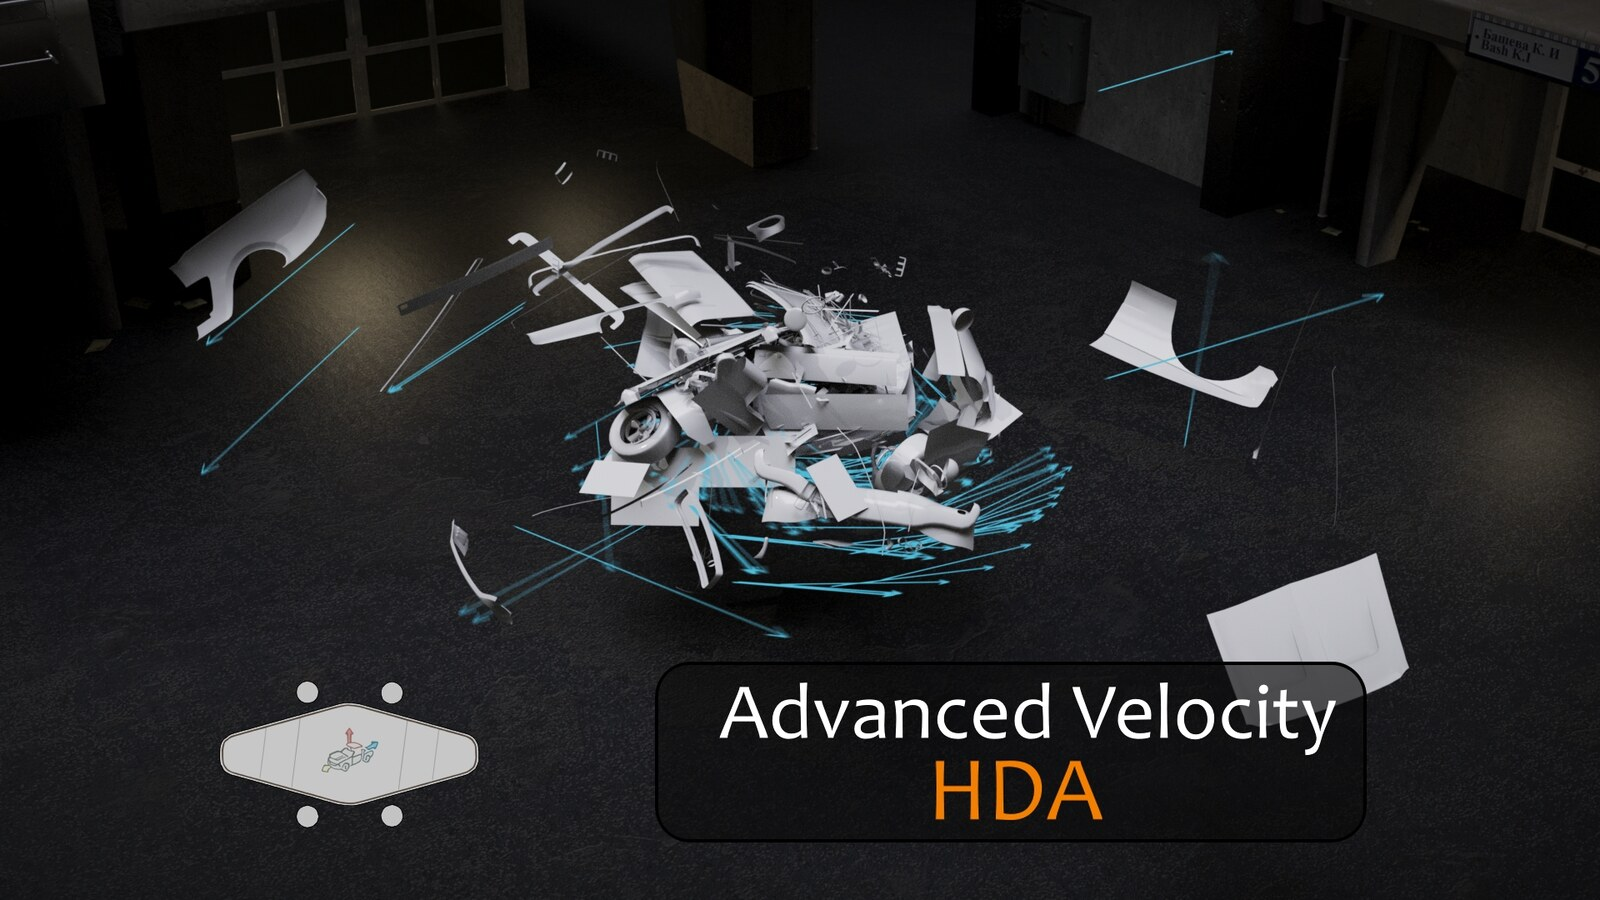
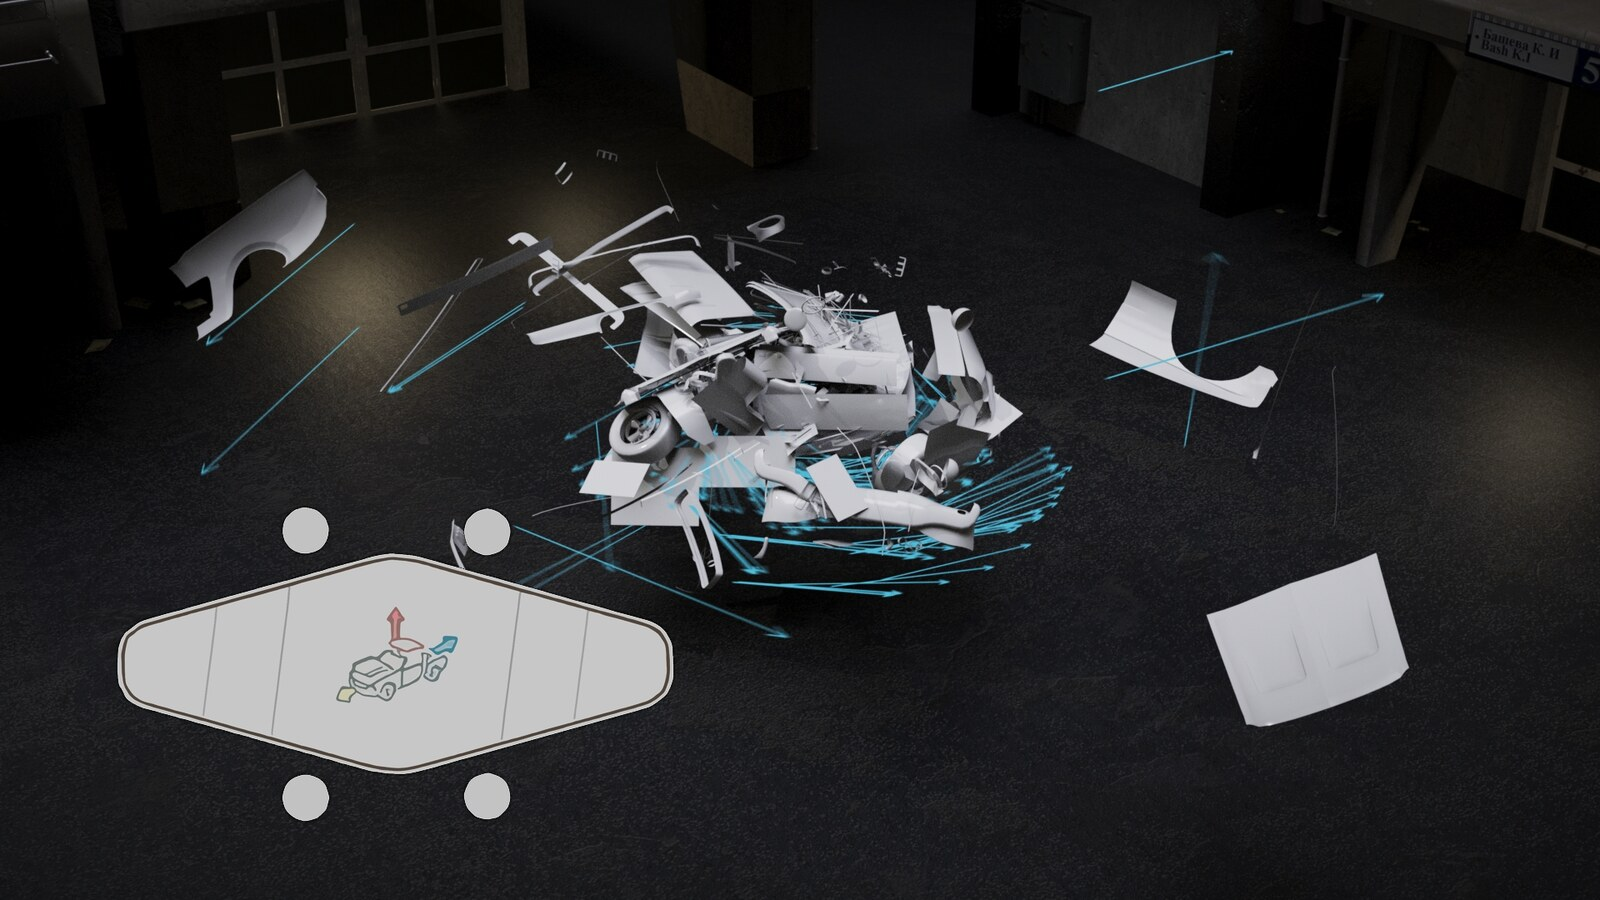
Refreshes Retype-generated documentation.
Process triggered by tonehammer.

Changed region(s): [[0.0625, 0.56, 0.875, 0.9333], [0.6562, 0.7156, 0.7188, 0.7467]]

diff --git a/resources/js/config.js b/resources/js/config.js
@@ -1,1 +1,1 @@
[2 lines of base64/hex data omitted]

diff --git a/advanced-velocity/timed-events/index.html b/advanced-velocity/timed-events/index.html
@@ -5,7 +5,7 @@
     <meta name="viewport" content="width=device-width,initial-scale=1">
     <meta name="color-scheme" content="light dark">
     <meta name="turbo-root" content="/jvtools-docs">
-    <meta name="turbo-cache-control" content="no-cache" data-turbo-track="reload" data-track-token="4.6.0.839342375614">
+    <meta name="turbo-cache-control" content="no-cache" data-turbo-track="reload" data-track-token="4.6.0.839342622004">
 
     <!-- See retype.com -->
     <meta name="generator" content="Retype 4.6.0">
@@ -38,12 +38,12 @@
 
     <script data-cfasync="false">(function(){var cl=document.documentElement.classList,ls=localStorage.getItem("retype_scheme"),hd=cl.contains("dark"),hl=cl.contains("light"),wm=window.matchMedia&&window.matchMedia("(prefers-color-scheme: dark)").matches;if(ls==="dark"||(!ls&&wm&&!hd&&!hl)){cl.remove("light");cl.add("dark")}else if(ls==="light"||(!ls&&!wm&&!hd&&!hl)){cl.remove("dark");cl.add("light")}})();</script>
 
-    <link href="../../resources/css/retype.css?v=4.6.0.839342375614" rel="stylesheet">
+    <link href="../../resources/css/retype.css?v=4.6.0.839342622004" rel="stylesheet">
 
-    <script data-cfasync="false" src="../../resources/js/config.js?v=4.6.0.839342375614" data-turbo-eval="false" defer></script>
+    <script data-cfasync="false" src="../../resources/js/config.js?v=4.6.0.839342622004" data-turbo-eval="false" defer></script>
     <script data-cfasync="false" src="../../resources/js/retype.js?v=4.6.0" data-turbo-eval="false" defer></script>
-    <script id="lunr-js" data-cfasync="false" src="../../resources/js/lunr.js?v=4.6.0.839342375614" data-turbo-eval="false" defer></script>
-    <script id="prism-js" data-cfasync="false" src="../../resources/js/prism.js?v=4.6.0.839342375614" defer></script>
+    <script id="lunr-js" data-cfasync="false" src="../../resources/js/lunr.js?v=4.6.0.839342622004" data-turbo-eval="false" defer></script>
+    <script id="prism-js" data-cfasync="false" src="../../resources/js/prism.js?v=4.6.0.839342622004" defer></script>
 </head>
 <body>
     <div id="retype-app" class="relative text-base antialiased text-base-text bg-base-bg font-body">

diff --git a/404.html b/404.html
@@ -5,7 +5,7 @@
     <meta name="viewport" content="width=device-width,initial-scale=1">
     <meta name="color-scheme" content="light dark">
     <meta name="turbo-root" content="/jvtools-docs">
-    <meta name="turbo-cache-control" content="no-cache" data-turbo-track="reload" data-track-token="4.6.0.839342375614">
+    <meta name="turbo-cache-control" content="no-cache" data-turbo-track="reload" data-track-token="4.6.0.839342622004">
 
     <!-- See retype.com -->
     <meta name="generator" content="Retype 4.6.0">
@@ -32,11 +32,11 @@
 
     <script data-cfasync="false">(function(){var cl=document.documentElement.classList,ls=localStorage.getItem("retype_scheme"),hd=cl.contains("dark"),hl=cl.contains("light"),wm=window.matchMedia&&window.matchMedia("(prefers-color-scheme: dark)").matches;if(ls==="dark"||(!ls&&wm&&!hd&&!hl)){cl.remove("light");cl.add("dark")}else if(ls==="light"||(!ls&&!wm&&!hd&&!hl)){cl.remove("dark");cl.add("light")}})();</script>
 
-    <link href="/jvtools-docs/resources/css/retype.css?v=4.6.0.839342375614" rel="stylesheet">
+    <link href="/jvtools-docs/resources/css/retype.css?v=4.6.0.839342622004" rel="stylesheet">
 
-    <script data-cfasync="false" src="/jvtools-docs/resources/js/config.js?v=4.6.0.839342375614" data-turbo-eval="false" defer></script>
+    <script data-cfasync="false" src="/jvtools-docs/resources/js/config.js?v=4.6.0.839342622004" data-turbo-eval="false" defer></script>
     <script data-cfasync="false" src="/jvtools-docs/resources/js/retype.js?v=4.6.0" data-turbo-eval="false" defer></script>
-    <script id="lunr-js" data-cfasync="false" src="/jvtools-docs/resources/js/lunr.js?v=4.6.0.839342375614" data-turbo-eval="false" defer></script>
+    <script id="lunr-js" data-cfasync="false" src="/jvtools-docs/resources/js/lunr.js?v=4.6.0.839342622004" data-turbo-eval="false" defer></script>
 </head>
 <body>
     <div id="retype-app" class="relative text-base antialiased text-base-text bg-base-bg font-body">

diff --git a/reallusion-importer/getting-started/import-modes/index.html b/reallusion-importer/getting-started/import-modes/index.html
@@ -5,7 +5,7 @@
     <meta name="viewport" content="width=device-width,initial-scale=1">
     <meta name="color-scheme" content="light dark">
     <meta name="turbo-root" content="/jvtools-docs">
-    <meta name="turbo-cache-control" content="no-cache" data-turbo-track="reload" data-track-token="4.6.0.839342375614">
+    <meta name="turbo-cache-control" content="no-cache" data-turbo-track="reload" data-track-token="4.6.0.839342622004">
 
     <!-- See retype.com -->
     <meta name="generator" content="Retype 4.6.0">
@@ -44,11 +44,11 @@
 
     <script data-cfasync="false">(function(){var cl=document.documentElement.classList,ls=localStorage.getItem("retype_scheme"),hd=cl.contains("dark"),hl=cl.contains("light"),wm=window.matchMedia&&window.matchMedia("(prefers-color-scheme: dark)").matches;if(ls==="dark"||(!ls&&wm&&!hd&&!hl)){cl.remove("light");cl.add("dark")}else if(ls==="light"||(!ls&&!wm&&!hd&&!hl)){cl.remove("dark");cl.add("light")}})();</script>
 
-    <link href="../../../resources/css/retype.css?v=4.6.0.839342375614" rel="stylesheet">
+    <link href="../../../resources/css/retype.css?v=4.6.0.839342622004" rel="stylesheet">
 
-    <script data-cfasync="false" src="../../../resources/js/config.js?v=4.6.0.839342375614" data-turbo-eval="false" defer></script>
+    <script data-cfasync="false" src="../../../resources/js/config.js?v=4.6.0.839342622004" data-turbo-eval="false" defer></script>
     <script data-cfasync="false" src="../../../resources/js/retype.js?v=4.6.0" data-turbo-eval="false" defer></script>
-    <script id="lunr-js" data-cfasync="false" src="../../../resources/js/lunr.js?v=4.6.0.839342375614" data-turbo-eval="false" defer></script>
+    <script id="lunr-js" data-cfasync="false" src="../../../resources/js/lunr.js?v=4.6.0.839342622004" data-turbo-eval="false" defer></script>
 </head>
 <body>
     <div id="retype-app" class="relative text-base antialiased text-base-text bg-base-bg font-body">

diff --git a/reallusion-importer/getting-started/installation/index.html b/reallusion-importer/getting-started/installation/index.html
@@ -5,7 +5,7 @@
     <meta name="viewport" content="width=device-width,initial-scale=1">
     <meta name="color-scheme" content="light dark">
     <meta name="turbo-root" content="/jvtools-docs">
-    <meta name="turbo-cache-control" content="no-cache" data-turbo-track="reload" data-track-token="4.6.0.839342375614">
+    <meta name="turbo-cache-control" content="no-cache" data-turbo-track="reload" data-track-token="4.6.0.839342622004">
 
     <!-- See retype.com -->
     <meta name="generator" content="Retype 4.6.0">
@@ -44,11 +44,11 @@
 
     <script data-cfasync="false">(function(){var cl=document.documentElement.classList,ls=localStorage.getItem("retype_scheme"),hd=cl.contains("dark"),hl=cl.contains("light"),wm=window.matchMedia&&window.matchMedia("(prefers-color-scheme: dark)").matches;if(ls==="dark"||(!ls&&wm&&!hd&&!hl)){cl.remove("light");cl.add("dark")}else if(ls==="light"||(!ls&&!wm&&!hd&&!hl)){cl.remove("dark");cl.add("light")}})();</script>
 
-    <link href="../../../resources/css/retype.css?v=4.6.0.839342375614" rel="stylesheet">
+    <link href="../../../resources/css/retype.css?v=4.6.0.839342622004" rel="stylesheet">
 
-    <script data-cfasync="false" src="../../../resources/js/config.js?v=4.6.0.839342375614" data-turbo-eval="false" defer></script>
+    <script data-cfasync="false" src="../../../resources/js/config.js?v=4.6.0.839342622004" data-turbo-eval="false" defer></script>
     <script data-cfasync="false" src="../../../resources/js/retype.js?v=4.6.0" data-turbo-eval="false" defer></script>
-    <script id="lunr-js" data-cfasync="false" src="../../../resources/js/lunr.js?v=4.6.0.839342375614" data-turbo-eval="false" defer></script>
+    <script id="lunr-js" data-cfasync="false" src="../../../resources/js/lunr.js?v=4.6.0.839342622004" data-turbo-eval="false" defer></script>
 </head>
 <body>
     <div id="retype-app" class="relative text-base antialiased text-base-text bg-base-bg font-body">

diff --git a/reallusion-importer/getting-started/preparing-your-character/index.html b/reallusion-importer/getting-started/preparing-your-character/index.html
@@ -5,7 +5,7 @@
     <meta name="viewport" content="width=device-width,initial-scale=1">
     <meta name="color-scheme" content="light dark">
     <meta name="turbo-root" content="/jvtools-docs">
-    <meta name="turbo-cache-control" content="no-cache" data-turbo-track="reload" data-track-token="4.6.0.839342375614">
+    <meta name="turbo-cache-control" content="no-cache" data-turbo-track="reload" data-track-token="4.6.0.839342622004">
 
     <!-- See retype.com -->
     <meta name="generator" content="Retype 4.6.0">
@@ -44,11 +44,11 @@
 
     <script data-cfasync="false">(function(){var cl=document.documentElement.classList,ls=localStorage.getItem("retype_scheme"),hd=cl.contains("dark"),hl=cl.contains("light"),wm=window.matchMedia&&window.matchMedia("(prefers-color-scheme: dark)").matches;if(ls==="dark"||(!ls&&wm&&!hd&&!hl)){cl.remove("light");cl.add("dark")}else if(ls==="light"||(!ls&&!wm&&!hd&&!hl)){cl.remove("dark");cl.add("light")}})();</script>
 
-    <link href="../../../resources/css/retype.css?v=4.6.0.839342375614" rel="stylesheet">
+    <link href="../../../resources/css/retype.css?v=4.6.0.839342622004" rel="stylesheet">
 
-    <script data-cfasync="false" src="../../../resources/js/config.js?v=4.6.0.839342375614" data-turbo-eval="false" defer></script>
+    <script data-cfasync="false" src="../../../resources/js/config.js?v=4.6.0.839342622004" data-turbo-eval="false" defer></script>
     <script data-cfasync="false" src="../../../resources/js/retype.js?v=4.6.0" data-turbo-eval="false" defer></script>
-    <script id="lunr-js" data-cfasync="false" src="../../../resources/js/lunr.js?v=4.6.0.839342375614" data-turbo-eval="false" defer></script>
+    <script id="lunr-js" data-cfasync="false" src="../../../resources/js/lunr.js?v=4.6.0.839342622004" data-turbo-eval="false" defer></script>
 </head>
 <body>
     <div id="retype-app" class="relative text-base antialiased text-base-text bg-base-bg font-body">

diff --git a/reallusion-importer/getting-started/quick-start/index.html b/reallusion-importer/getting-started/quick-start/index.html
@@ -5,7 +5,7 @@
     <meta name="viewport" content="width=device-width,initial-scale=1">
     <meta name="color-scheme" content="light dark">
     <meta name="turbo-root" content="/jvtools-docs">
-    <meta name="turbo-cache-control" content="no-cache" data-turbo-track="reload" data-track-token="4.6.0.839342375614">
+    <meta name="turbo-cache-control" content="no-cache" data-turbo-track="reload" data-track-token="4.6.0.839342622004">
 
     <!-- See retype.com -->
     <meta name="generator" content="Retype 4.6.0">
@@ -44,11 +44,11 @@
 
     <script data-cfasync="false">(function(){var cl=document.documentElement.classList,ls=localStorage.getItem("retype_scheme"),hd=cl.contains("dark"),hl=cl.contains("light"),wm=window.matchMedia&&window.matchMedia("(prefers-color-scheme: dark)").matches;if(ls==="dark"||(!ls&&wm&&!hd&&!hl)){cl.remove("light");cl.add("dark")}else if(ls==="light"||(!ls&&!wm&&!hd&&!hl)){cl.remove("dark");cl.add("light")}})();</script>
 
-    <link href="../../../resources/css/retype.css?v=4.6.0.839342375614" rel="stylesheet">
+    <link href="../../../resources/css/retype.css?v=4.6.0.839342622004" rel="stylesheet">
 
-    <script data-cfasync="false" src="../../../resources/js/config.js?v=4.6.0.839342375614" data-turbo-eval="false" defer></script>
+    <script data-cfasync="false" src="../../../resources/js/config.js?v=4.6.0.839342622004" data-turbo-eval="false" defer></script>
     <script data-cfasync="false" src="../../../resources/js/retype.js?v=4.6.0" data-turbo-eval="false" defer></script>
-    <script id="lunr-js" data-cfasync="false" src="../../../resources/js/lunr.js?v=4.6.0.839342375614" data-turbo-eval="false" defer></script>
+    <script id="lunr-js" data-cfasync="false" src="../../../resources/js/lunr.js?v=4.6.0.839342622004" data-turbo-eval="false" defer></script>
 </head>
 <body>
     <div id="retype-app" class="relative text-base antialiased text-base-text bg-base-bg font-body">

diff --git a/reallusion-importer/reference/changelog/index.html b/reallusion-importer/reference/changelog/index.html
@@ -5,7 +5,7 @@
     <meta name="viewport" content="width=device-width,initial-scale=1">
     <meta name="color-scheme" content="light dark">
     <meta name="turbo-root" content="/jvtools-docs">
-    <meta name="turbo-cache-control" content="no-cache" data-turbo-track="reload" data-track-token="4.6.0.839342375614">
+    <meta name="turbo-cache-control" content="no-cache" data-turbo-track="reload" data-track-token="4.6.0.839342622004">
 
     <!-- See retype.com -->
     <meta name="generator" content="Retype 4.6.0">
@@ -38,11 +38,11 @@
 
     <script data-cfasync="false">(function(){var cl=document.documentElement.classList,ls=localStorage.getItem("retype_scheme"),hd=cl.contains("dark"),hl=cl.contains("light"),wm=window.matchMedia&&window.matchMedia("(prefers-color-scheme: dark)").matches;if(ls==="dark"||(!ls&&wm&&!hd&&!hl)){cl.remove("light");cl.add("dark")}else if(ls==="light"||(!ls&&!wm&&!hd&&!hl)){cl.remove("dark");cl.add("light")}})();</script>
 
-    <link href="../../../resources/css/retype.css?v=4.6.0.839342375614" rel="stylesheet">
+    <link href="../../../resources/css/retype.css?v=4.6.0.839342622004" rel="stylesheet">
 
-    <script data-cfasync="false" src="../../../resources/js/config.js?v=4.6.0.839342375614" data-turbo-eval="false" defer></script>
+    <script data-cfasync="false" src="../../../resources/js/config.js?v=4.6.0.839342622004" data-turbo-eval="false" defer></script>
     <script data-cfasync="false" src="../../../resources/js/retype.js?v=4.6.0" data-turbo-eval="false" defer></script>
-    <script id="lunr-js" data-cfasync="false" src="../../../resources/js/lunr.js?v=4.6.0.839342375614" data-turbo-eval="false" defer></script>
+    <script id="lunr-js" data-cfasync="false" src="../../../resources/js/lunr.js?v=4.6.0.839342622004" data-turbo-eval="false" defer></script>
 </head>
 <body>
     <div id="retype-app" class="relative text-base antialiased text-base-text bg-base-bg font-body">

diff --git a/reallusion-importer/reference/license/index.html b/reallusion-importer/reference/license/index.html
@@ -5,7 +5,7 @@
     <meta name="viewport" content="width=device-width,initial-scale=1">
     <meta name="color-scheme" content="light dark">
     <meta name="turbo-root" content="/jvtools-docs">
-    <meta name="turbo-cache-control" content="no-cache" data-turbo-track="reload" data-track-token="4.6.0.839342375614">
+    <meta name="turbo-cache-control" content="no-cache" data-turbo-track="reload" data-track-token="4.6.0.839342622004">
 
     <!-- See retype.com -->
     <meta name="generator" content="Retype 4.6.0">
@@ -38,11 +38,11 @@
 
     <script data-cfasync="false">(function(){var cl=document.documentElement.classList,ls=localStorage.getItem("retype_scheme"),hd=cl.contains("dark"),hl=cl.contains("light"),wm=window.matchMedia&&window.matchMedia("(prefers-color-scheme: dark)").matches;if(ls==="dark"||(!ls&&wm&&!hd&&!hl)){cl.remove("light");cl.add("dark")}else if(ls==="light"||(!ls&&!wm&&!hd&&!hl)){cl.remove("dark");cl.add("light")}})();</script>
 
-    <link href="../../../resources/css/retype.css?v=4.6.0.839342375614" rel="stylesheet">
+    <link href="../../../resources/css/retype.css?v=4.6.0.839342622004" rel="stylesheet">
 
-    <script data-cfasync="false" src="../../../resources/js/config.js?v=4.6.0.839342375614" data-turbo-eval="false" defer></script>
+    <script data-cfasync="false" src="../../../resources/js/config.js?v=4.6.0.839342622004" data-turbo-eval="false" defer></script>
     <script data-cfasync="false" src="../../../resources/js/retype.js?v=4.6.0" data-turbo-eval="false" defer></script>
-    <script id="lunr-js" data-cfasync="false" src="../../../resources/js/lunr.js?v=4.6.0.839342375614" data-turbo-eval="false" defer></script>
+    <script id="lunr-js" data-cfasync="false" src="../../../resources/js/lunr.js?v=4.6.0.839342622004" data-turbo-eval="false" defer></script>
 </head>
 <body>
     <div id="retype-app" class="relative text-base antialiased text-base-text bg-base-bg font-body">

diff --git a/reallusion-importer/reference/limitations/index.html b/reallusion-importer/reference/limitations/index.html
@@ -5,7 +5,7 @@
     <meta name="viewport" content="width=device-width,initial-scale=1">
     <meta name="color-scheme" content="light dark">
     <meta name="turbo-root" content="/jvtools-docs">
-    <meta name="turbo-cache-control" content="no-cache" data-turbo-track="reload" data-track-token="4.6.0.839342375614">
+    <meta name="turbo-cache-control" content="no-cache" data-turbo-track="reload" data-track-token="4.6.0.839342622004">
 
     <!-- See retype.com -->
     <meta name="generator" content="Retype 4.6.0">
@@ -38,11 +38,11 @@
 
     <script data-cfasync="false">(function(){var cl=document.documentElement.classList,ls=localStorage.getItem("retype_scheme"),hd=cl.contains("dark"),hl=cl.contains("light"),wm=window.matchMedia&&window.matchMedia("(prefers-color-scheme: dark)").matches;if(ls==="dark"||(!ls&&wm&&!hd&&!hl)){cl.remove("light");cl.add("dark")}else if(ls==="light"||(!ls&&!wm&&!hd&&!hl)){cl.remove("dark");cl.add("light")}})();</script>
 
-    <link href="../../../resources/css/retype.css?v=4.6.0.839342375614" rel="stylesheet">
+    <link href="../../../resources/css/retype.css?v=4.6.0.839342622004" rel="stylesheet">
 
-    <script data-cfasync="false" src="../../../resources/js/config.js?v=4.6.0.839342375614" data-turbo-eval="false" defer></script>
+    <script data-cfasync="false" src="../../../resources/js/config.js?v=4.6.0.839342622004" data-turbo-eval="false" defer></script>
     <script data-cfasync="false" src="../../../resources/js/retype.js?v=4.6.0" data-turbo-eval="false" defer></script>
-    <script id="lunr-js" data-cfasync="false" src="../../../resources/js/lunr.js?v=4.6.0.839342375614" data-turbo-eval="false" defer></script>
+    <script id="lunr-js" data-cfasync="false" src="../../../resources/js/lunr.js?v=4.6.0.839342622004" data-turbo-eval="false" defer></script>
 </head>
 <body>
     <div id="retype-app" class="relative text-base antialiased text-base-text bg-base-bg font-body">

diff --git a/reallusion-importer/reference/parameter-reference/index.html b/reallusion-importer/reference/parameter-reference/index.html
@@ -5,7 +5,7 @@
     <meta name="viewport" content="width=device-width,initial-scale=1">
     <meta name="color-scheme" content="light dark">
     <meta name="turbo-root" content="/jvtools-docs">
-    <meta name="turbo-cache-control" content="no-cache" data-turbo-track="reload" data-track-token="4.6.0.839342375614">
+    <meta name="turbo-cache-control" content="no-cache" data-turbo-track="reload" data-track-token="4.6.0.839342622004">
 
     <!-- See retype.com -->
     <meta name="generator" content="Retype 4.6.0">
@@ -38,11 +38,11 @@
 
     <script data-cfasync="false">(function(){var cl=document.documentElement.classList,ls=localStorage.getItem("retype_scheme"),hd=cl.contains("dark"),hl=cl.contains("light"),wm=window.matchMedia&&window.matchMedia("(prefers-color-scheme: dark)").matches;if(ls==="dark"||(!ls&&wm&&!hd&&!hl)){cl.remove("light");cl.add("dark")}else if(ls==="light"||(!ls&&!wm&&!hd&&!hl)){cl.remove("dark");cl.add("light")}})();</script>
 
-    <link href="../../../resources/css/retype.css?v=4.6.0.839342375614" rel="stylesheet">
+    <link href="../../../resources/css/retype.css?v=4.6.0.839342622004" rel="stylesheet">
 
-    <script data-cfasync="false" src="../../../resources/js/config.js?v=4.6.0.839342375614" data-turbo-eval="false" defer></script>
+    <script data-cfasync="false" src="../../../resources/js/config.js?v=4.6.0.839342622004" data-turbo-eval="false" defer></script>
     <script data-cfasync="false" src="../../../resources/js/retype.js?v=4.6.0" data-turbo-eval="false" defer></script>
-    <script id="lunr-js" data-cfasync="false" src="../../../resources/js/lunr.js?v=4.6.0.839342375614" data-turbo-eval="false" defer></script>
+    <script id="lunr-js" data-cfasync="false" src="../../../resources/js/lunr.js?v=4.6.0.839342622004" data-turbo-eval="false" defer></script>
 </head>
 <body>
     <div id="retype-app" class="relative text-base antialiased text-base-text bg-base-bg font-body">

diff --git a/reallusion-importer/reference/performance/index.html b/reallusion-importer/reference/performance/index.html
@@ -5,7 +5,7 @@
     <meta name="viewport" content="width=device-width,initial-scale=1">
     <meta name="color-scheme" content="light dark">
     <meta name="turbo-root" content="/jvtools-docs">
-    <meta name="turbo-cache-control" content="no-cache" data-turbo-track="reload" data-track-token="4.6.0.839342375614">
+    <meta name="turbo-cache-control" content="no-cache" data-turbo-track="reload" data-track-token="4.6.0.839342622004">
 
     <!-- See retype.com -->
     <meta name="generator" content="Retype 4.6.0">
@@ -44,11 +44,11 @@
 
     <script data-cfasync="false">(function(){var cl=document.documentElement.classList,ls=localStorage.getItem("retype_scheme"),hd=cl.contains("dark"),hl=cl.contains("light"),wm=window.matchMedia&&window.matchMedia("(prefers-color-scheme: dark)").matches;if(ls==="dark"||(!ls&&wm&&!hd&&!hl)){cl.remove("light");cl.add("dark")}else if(ls==="light"||(!ls&&!wm&&!hd&&!hl)){cl.remove("dark");cl.add("light")}})();</script>
 
-    <link href="../../../resources/css/retype.css?v=4.6.0.839342375614" rel="stylesheet">
+    <link href="../../../resources/css/retype.css?v=4.6.0.839342622004" rel="stylesheet">
 
-    <script data-cfasync="false" src="../../../resources/js/config.js?v=4.6.0.839342375614" data-turbo-eval="false" defer></script>
+    <script data-cfasync="false" src="../../../resources/js/config.js?v=4.6.0.839342622004" data-turbo-eval="false" defer></script>
     <script data-cfasync="false" src="../../../resources/js/retype.js?v=4.6.0" data-turbo-eval="false" defer></script>
-    <script id="lunr-js" data-cfasync="false" src="../../../resources/js/lunr.js?v=4.6.0.839342375614" data-turbo-eval="false" defer></script>
+    <script id="lunr-js" data-cfasync="false" src="../../../resources/js/lunr.js?v=4.6.0.839342622004" data-turbo-eval="false" defer></script>
 </head>
 <body>
     <div id="retype-app" class="relative text-base antialiased text-base-text bg-base-bg font-body">
